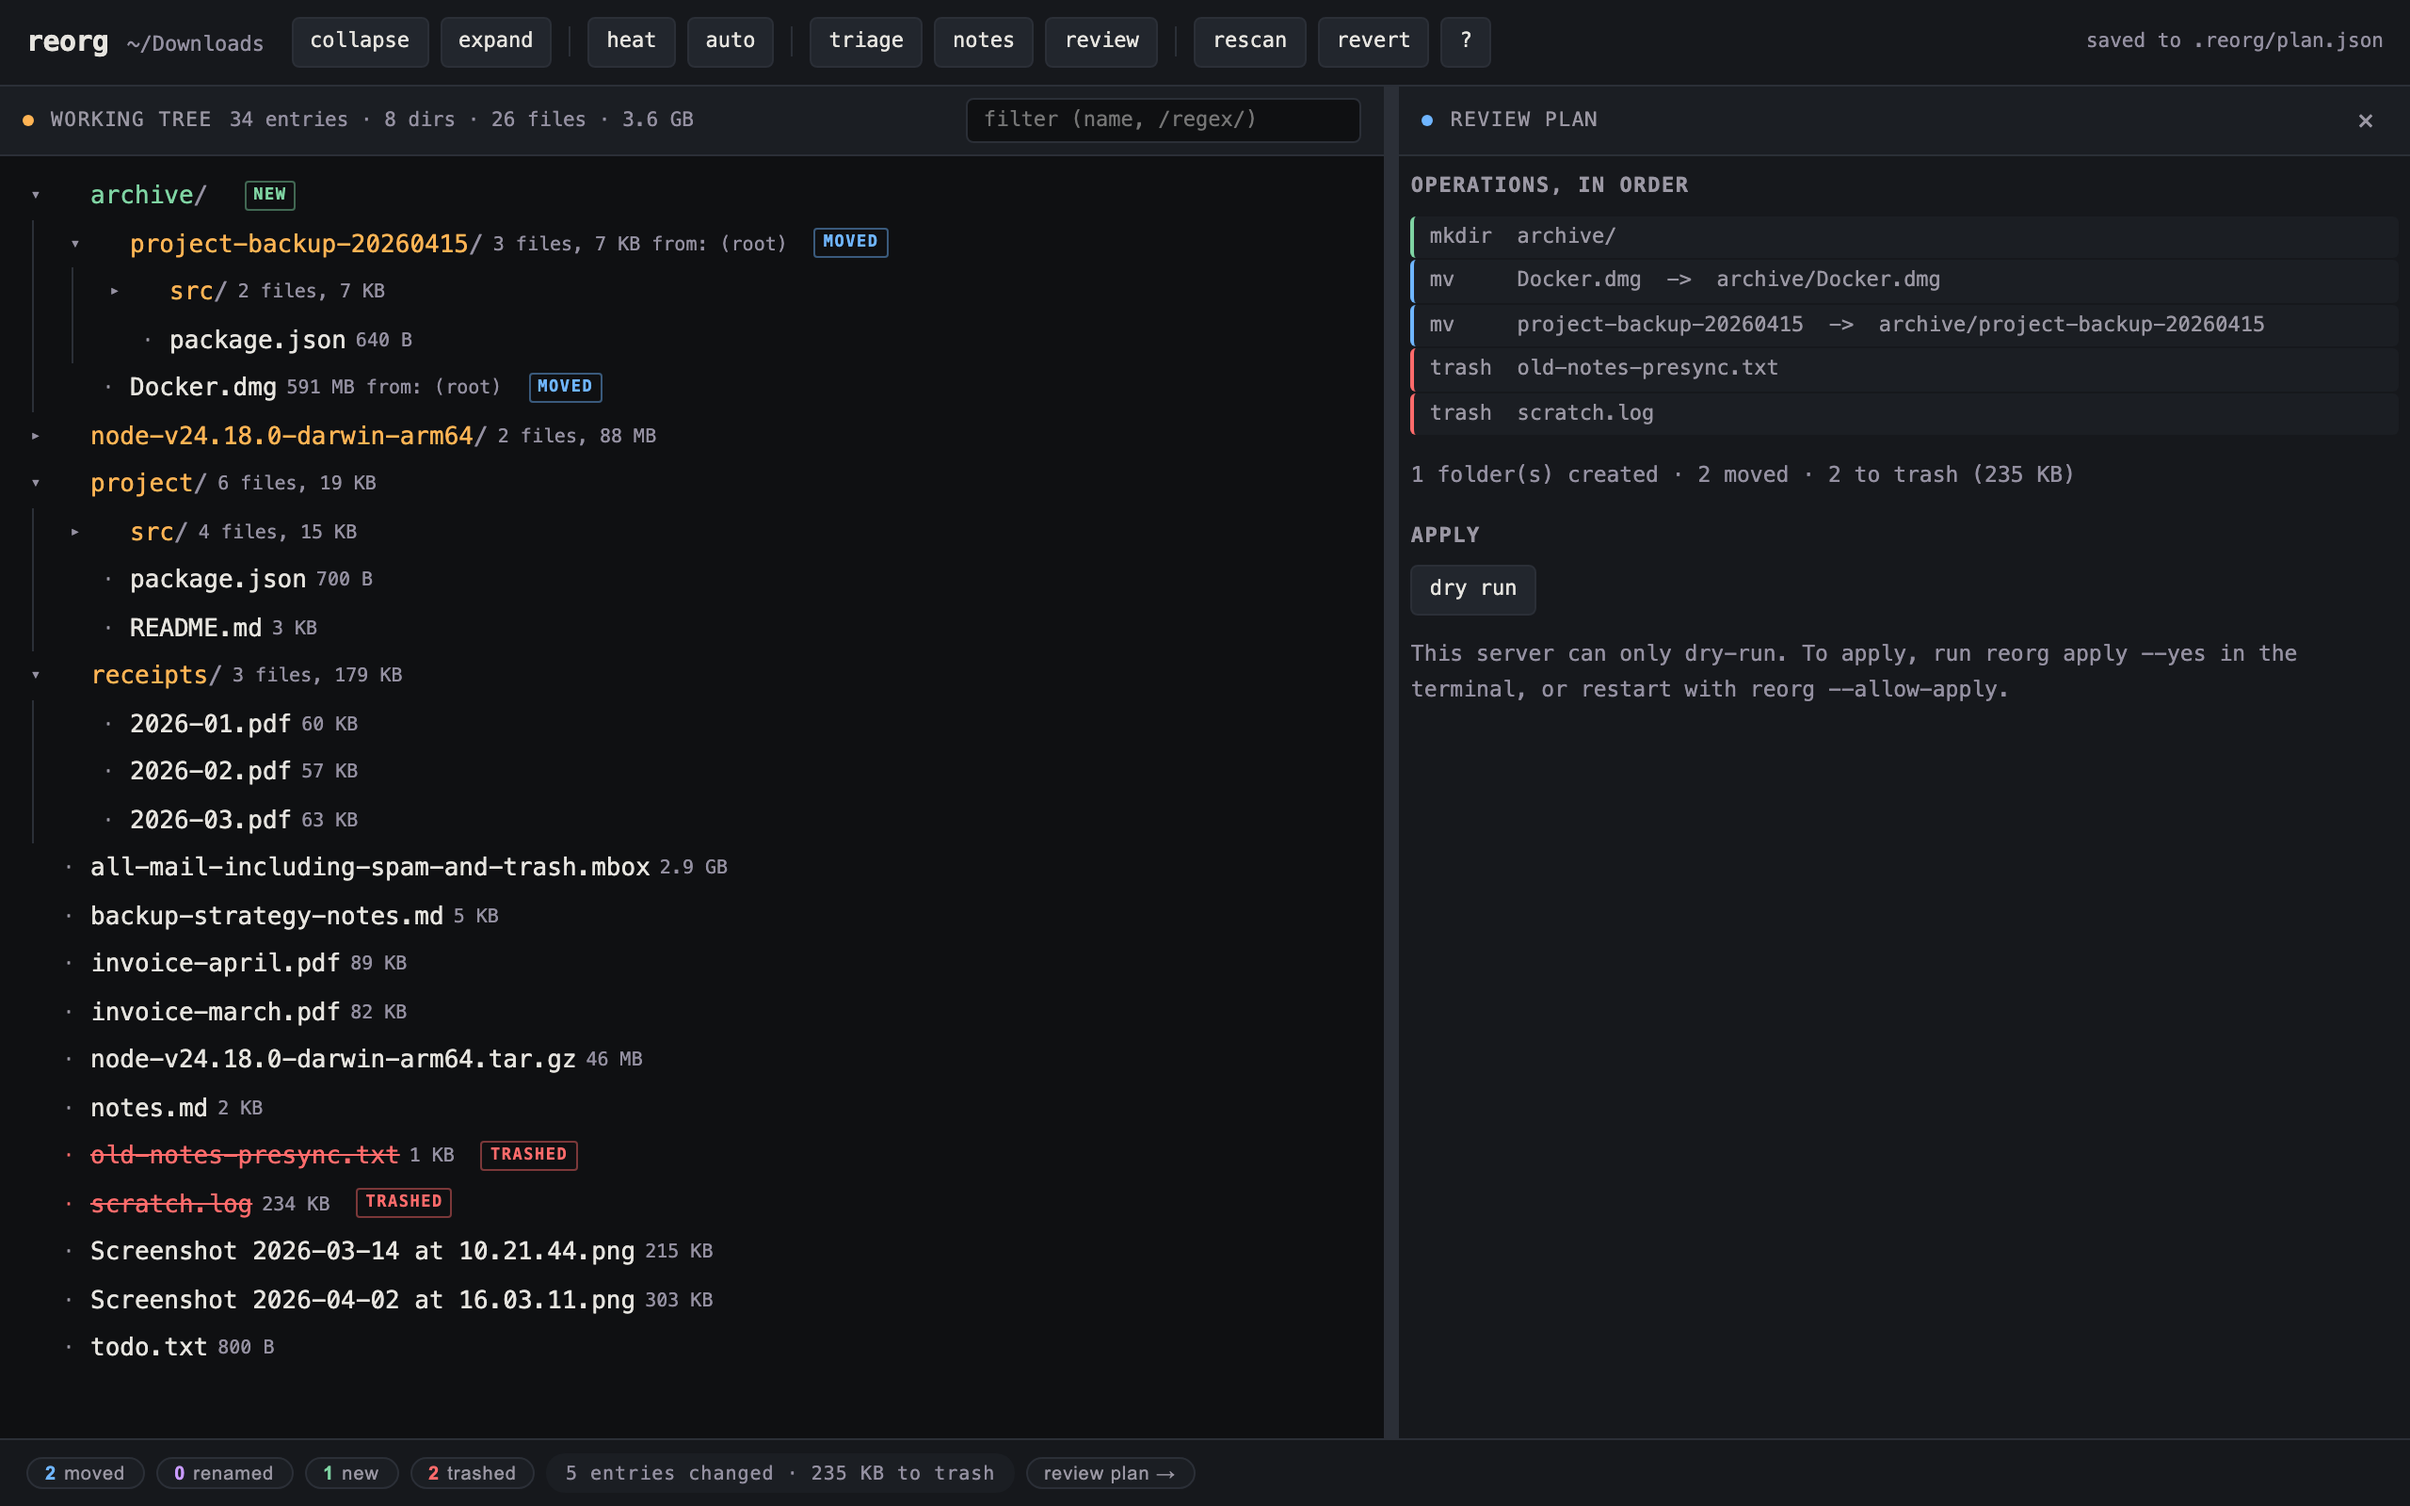
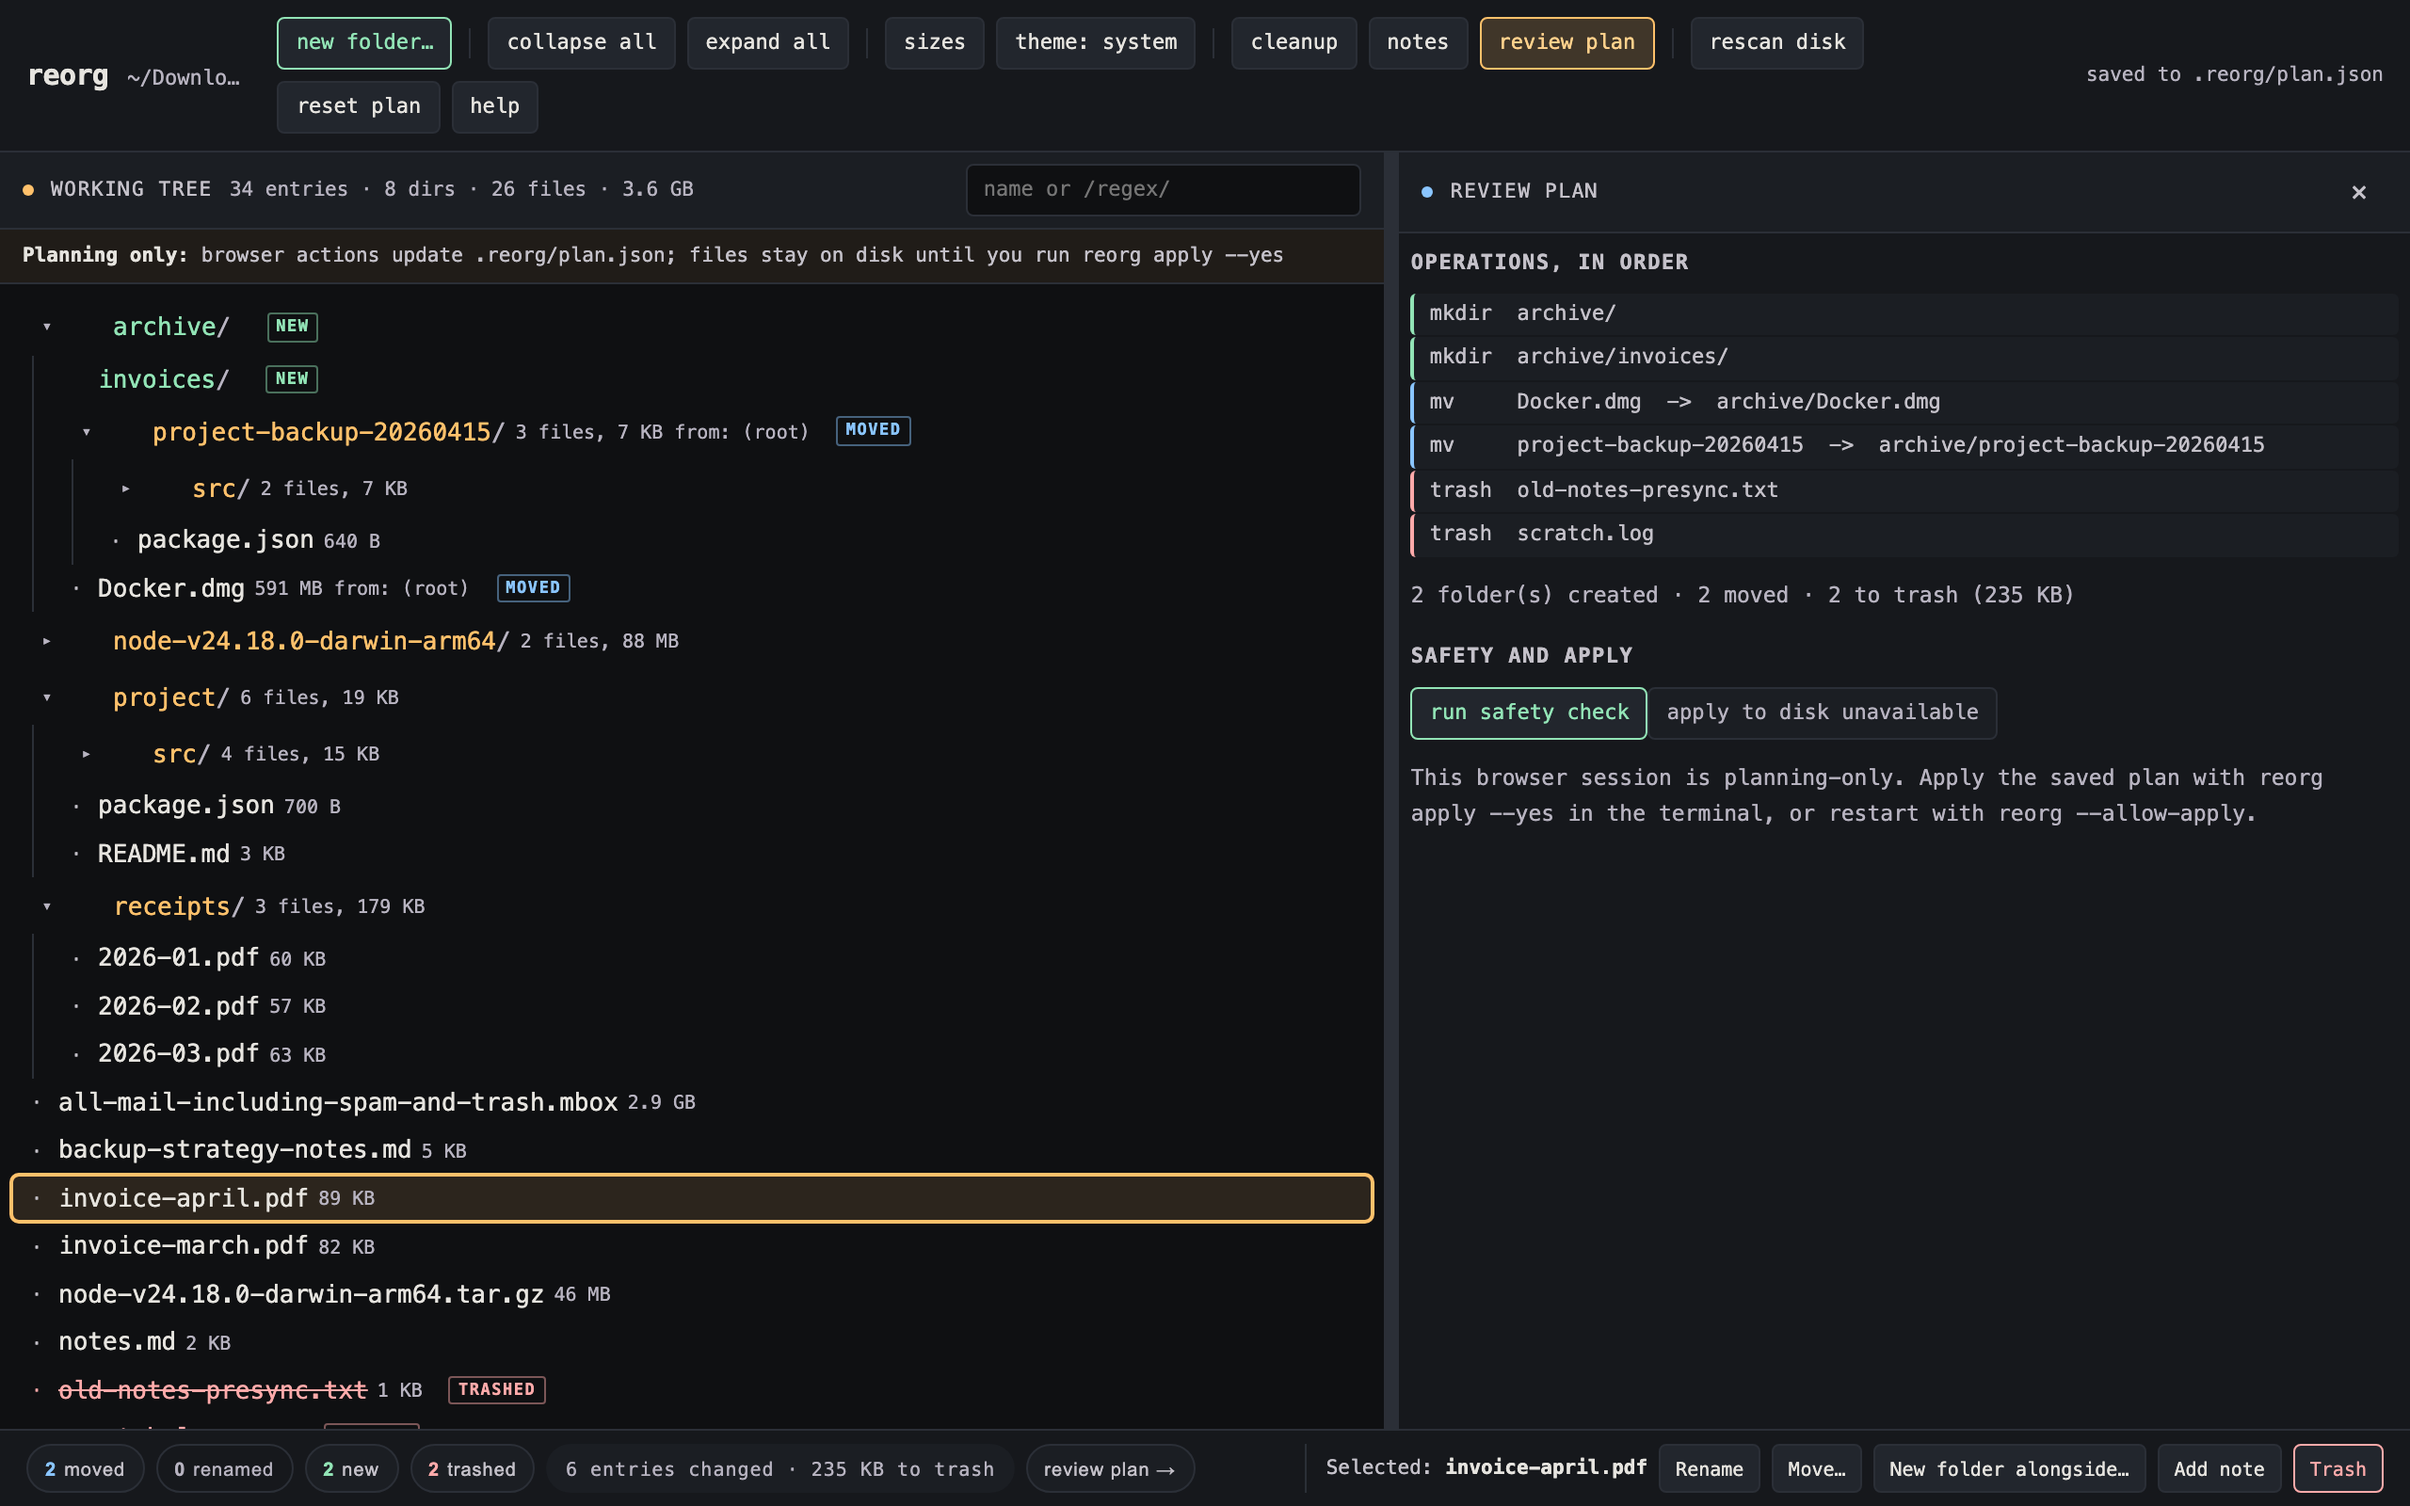
Refresh planner documentation and screenshots
- Document folder creation, non-drag moves, keyboard navigation, and
  accessibility scope
- Regenerate planner, move, cleanup, and review screenshots

diff --git a/README.md b/README.md
@@ -1,14 +1,18 @@
 # reorg
 
-Reorganize a messy directory by dragging it into shape, then apply the plan with one command. Before moving anything, reorg writes an undo script.
+Reorganize a messy directory by selecting or dragging entries into shape, then apply the plan with one command. Before moving anything, reorg writes an undo script.
 
 ```
 npx reorg-cli ~/Downloads
 ```
 
-That scans the directory, opens a planner in your browser, and prints a URL. Drag folders around, rename things, mark junk for trash. Nothing touches disk until you say so.
+That scans the directory, opens a planner in your browser, and prints a URL. Select an entry to see its labeled actions, create folders at any level, move with or without drag and drop, rename things, and mark junk for trash. No planned rename, move, folder, or trash action touches the entries on disk until you say so.
 
 ![The planner mid-edit: a new folder, two moves, two entries marked for trash](docs/planner.png)
+
+When a destination does not exist yet, create and select it without leaving Move. Repeat that step to build as much nested structure as the plan needs.
+
+![The Move dialog creating a nested destination before moving a file](docs/move.png)
 
 No runtime dependencies, no build step, no config file. One Node script and a page.
 
@@ -41,7 +45,7 @@ npm run test:all
 
 `npm test` needs nothing installed, deliberately: it covers the scanner, the plan resolver, the apply engine and its undo scripts, the triage signals, the server's access control, and the browser-side plan model, all under `node --test` with nothing fetched.
 
-`npm run test:ui` drives the real page in a real Chromium, which is the only way to cover what a fake DOM cannot: drop-zone geometry is computed from the pointer's position against a row's box, and jsdom reports every box as zero-sized. It also runs a WCAG AA contrast sweep over both themes. Playwright is the one dependency in the repo and it is confined to `devDependencies`:
+`npm run test:ui` drives the real page in a real Chromium, which is the only way to cover what a fake DOM cannot: drop-zone geometry is computed from the pointer's position against a row's box, and jsdom reports every box as zero-sized. Automated accessibility coverage combines axe-core rules with a dedicated text-contrast sweep at WCAG AAA enhanced thresholds across both themes, every side panel, and every dialog. Playwright and axe-core are confined to `devDependencies`:
 
 ```bash
 npm ci && npx playwright install chromium
@@ -66,17 +70,23 @@ Short aliases are `-s` for `--static`, `-o` for `--output`, `-p` for `--port`, `
 
 In the planner:
 
-- **drag** a row onto a folder's middle to move *into* it; onto the top or bottom edge to become a sibling. Drop below the tree to move to the top level.
-- **double-click** or `F2` to rename in place.
-- **`Delete`** marks for trash. Folders take their contents with them.
-- **`n`** makes a new folder inside the selection; **`N`** attaches a note.
-- **`Space`** previews a file (first 100 lines, read on demand).
-- **`/`** jumps to the filter box; wrap the query in slashes for a regex (`/\.log$/`).
-- **`?`** lists every key.
+- **Select** a row to expose Rename, Move, New folder, Add note, and Trash or Remove actions with plain-language labels.
+- **Create folders** from the always-visible New folder button, then choose both the name and containing folder explicitly.
+- **Move** an entry with the Move dialog. If the destination is missing, create and select it in place, then repeat to build nested destinations.
+- **Drag** a row onto a folder's middle to move *into* it; onto the top or bottom edge to become a sibling. Drop below the tree to move to the top level.
+- **Use Arrow keys, Home, and End** to navigate the tree, `Enter` or `Space` to select or preview, and `Shift+F10` to open the selected entry's action menu.
+- **Double-click** or press `F2` to rename in place.
+- **Press `Delete`** to mark an entry for trash. Folders take their contents with them.
+- **Press `n`** to open New folder inside a selected folder, alongside a selected file, or at the top level when nothing is selected.
+- **Press `N`** to attach a note.
+- **Press `/`** to jump to the filter box; wrap the query in slashes for a regex (`/\.log$/`). Invalid expressions are explained without hiding the tree.
+- **Press `?`** to list every key.
 
-Toolbar toggles persist in the plan, so the view you set up is the view you come back to: **git** tints rows by git status, **heat** draws a size bar on each row, and **theme** cycles `auto` (follow the system) through forced `dark` and `light`.
+Toolbar toggles persist in the plan, so the view you set up is the view you come back to: **git status** tints rows by git status, **sizes** draws a size bar on each row, and **theme** cycles `system` through forced `dark` and `light`.
 
 Sibling order is *derived* (folders first, then natural sort), never stored. Dragging something out of a folder and back is a genuine no-op rather than a phantom "reordered" change.
+
+The planner targets WCAG 2.2 AA overall and adds AAA enhancements where they improve the experience without changing the product's compact structure. Normal and large text meet the AAA enhanced contrast thresholds in both themes, while controls meet the AA minimum target size rather than the larger AAA target. The tree, menus, dialogs, panels, status messages, focus movement, narrow single-pane layout, and reduced-motion behavior are all covered by browser tests.
 
 ## Static planner
 
@@ -89,7 +99,7 @@ reorg ~/Downloads -s -o downloads-plan.html
 
 Without `--output`, reorg writes a temporary HTML file and opens it. The page is self-contained: the tree, cleanup candidates, bounded file previews, styles, and browser code are all embedded, so it can be moved and opened directly with a `file://` URL. An explicit output path is never overwritten.
 
-The tradeoff is that a static page cannot rescan the directory, autosave to `.reorg/plan.json`, check the live filesystem, or apply anything. Edits stay in the page until **Review** exports `reorg-plan.json` by download or clipboard. Feed that export back to the CLI:
+The tradeoff is that a static page cannot rescan the directory, autosave to `.reorg/plan.json`, check the live filesystem, or apply anything. Edits stay in the page until **Review plan** exports `reorg-plan.json` by download or clipboard. Feed that export back to the CLI:
 
 ```bash
 reorg apply --plan ~/Downloads/reorg-plan.json # drift-checked dry run
@@ -104,7 +114,7 @@ A static page contains filenames, metadata, summaries, and the embedded file pre
 
 Applying a reorganization is the part that can ruin your afternoon, so the plan is always shown as the exact operations it resolves to, in order, before anything runs:
 
-![Review panel listing the resolved operations in order, with a dry-run button](docs/review.png)
+![Review panel listing the resolved operations in order, with a run safety check button](docs/review.png)
 
 - **Dry run is the default.** `reorg apply` prints and exits. Only `--yes` moves anything. The browser cannot apply at all unless you started it with `--allow-apply`.
 - **Nothing is deleted.** "Trash" moves into `.reorg/trash/<run>/`. Emptying that is a separate decision you make yourself.
@@ -138,9 +148,9 @@ Summaries are stored in the plan and keyed by path, so they survive a rescan.
 
 ## Triage: what looks disposable
 
-`reorg triage` ranks entries that look like junk and says why, so a directory that has got away from you starts with a shortlist instead of a scroll. The same list is in the planner behind the **triage** button, where each row has a mark-for-trash button.
+`reorg triage` ranks entries that look like junk and says why, so a directory that has got away from you starts with a shortlist instead of a scroll. The same list is in the planner behind the **cleanup** button, where each row has a mark-for-trash button.
 
-![Triage panel: each candidate carries the signals that flagged it and a plain-language reason](docs/triage.png)
+![Cleanup candidates panel: each candidate carries the signals that flagged it and a plain-language reason](docs/triage.png)
 
 **It ranks names and structure, not age.** That is the opposite of the obvious design, and it is deliberate: a name is frequently a direct statement of intent – someone wrote "backup" or "dryrun" because that is what the thing was for – where mtime turns out to predict almost nothing. The signals are:
 
@@ -180,7 +190,7 @@ Every entry has a stable id (its path at scan time) and two positions: the froze
 
 Move ordering is a topological sort over two constraints: vacate before occupy (if X lands where Y still is, Y goes first), and parent before child (if X lands inside where Y is going, Y arrives first). A cycle between them means no order works, which is when staging kicks in.
 
-`reorg plan` prints exactly this list, and the planner's **review** panel shows the same thing before you apply.
+`reorg plan` prints exactly this list, and the planner's **review plan** panel shows the same thing before you apply.
 
 ## Layout
 
